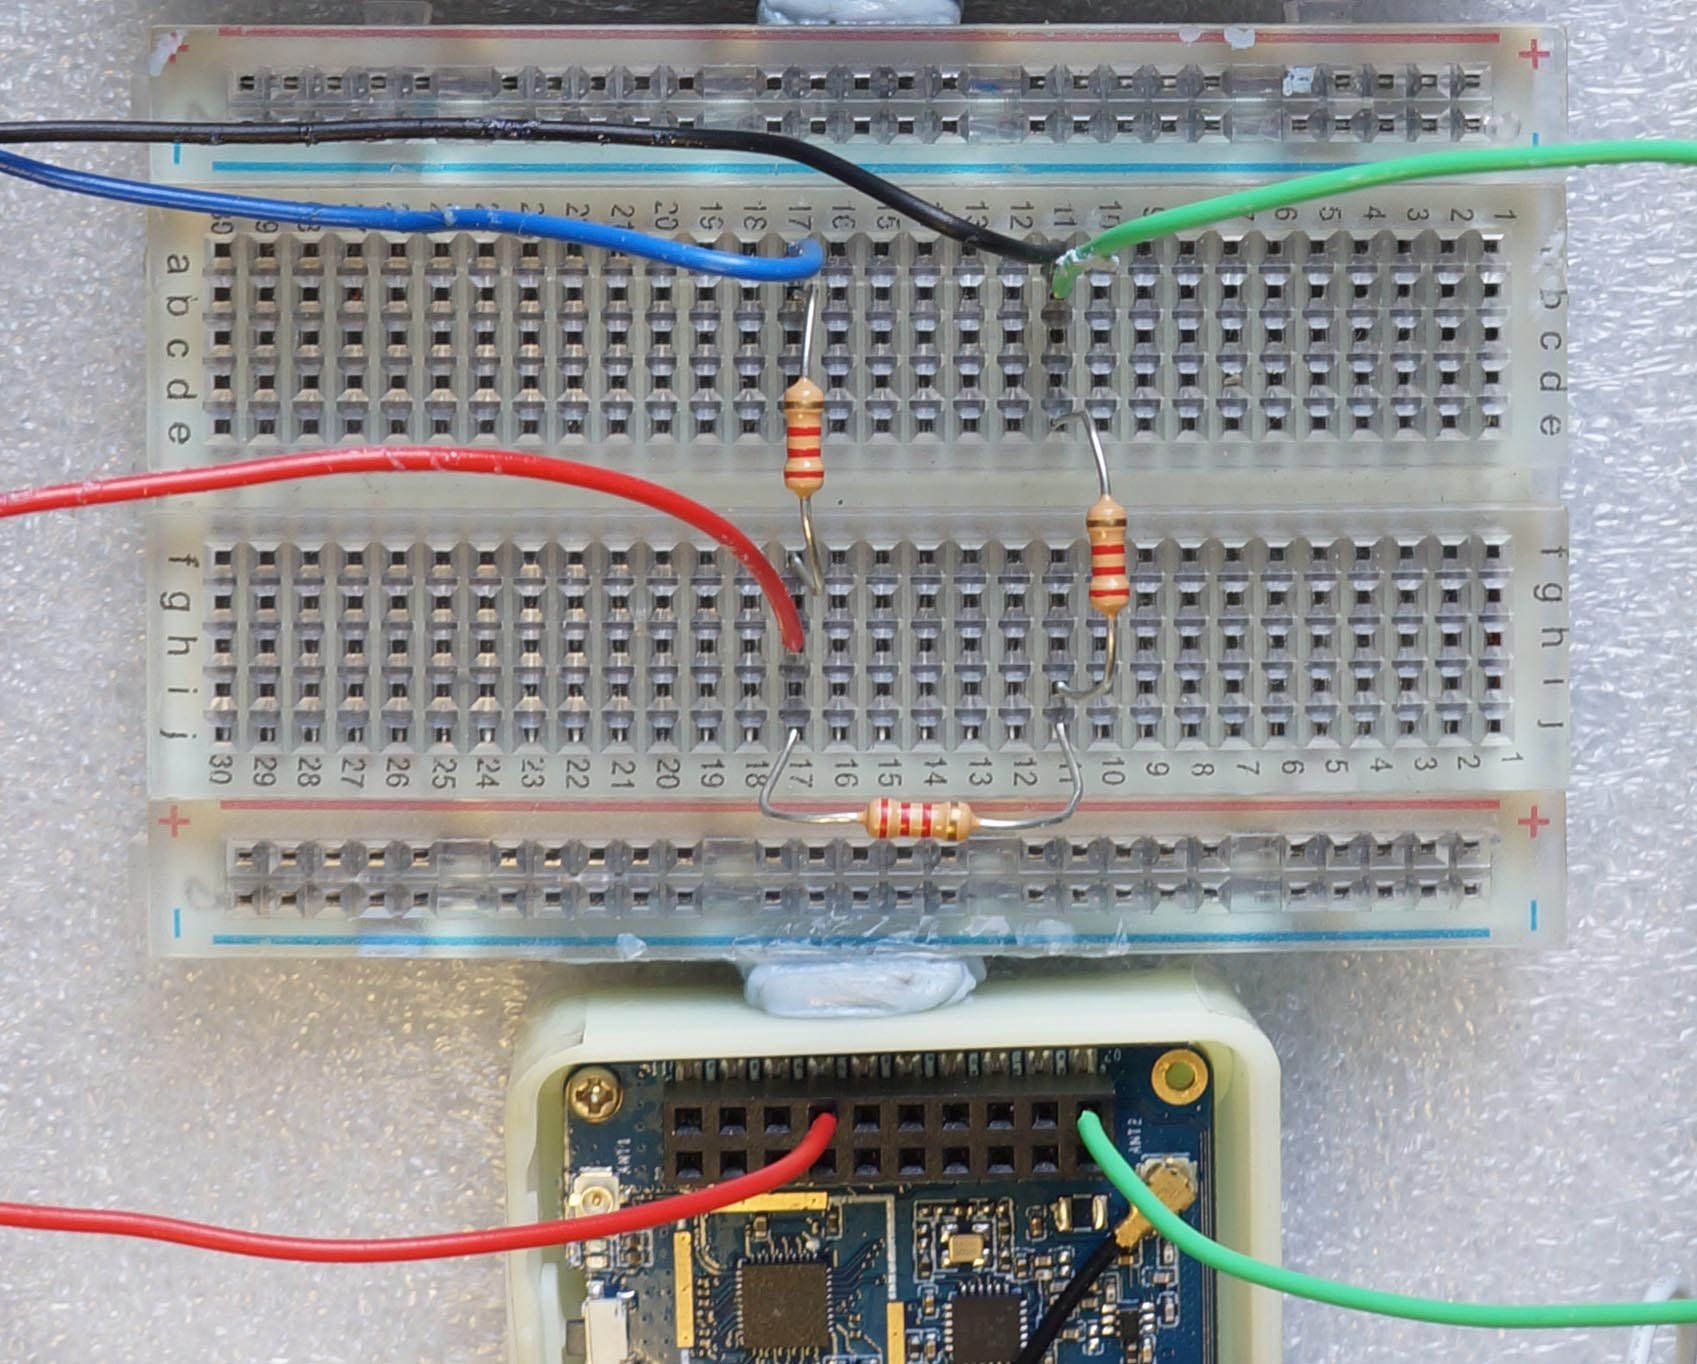
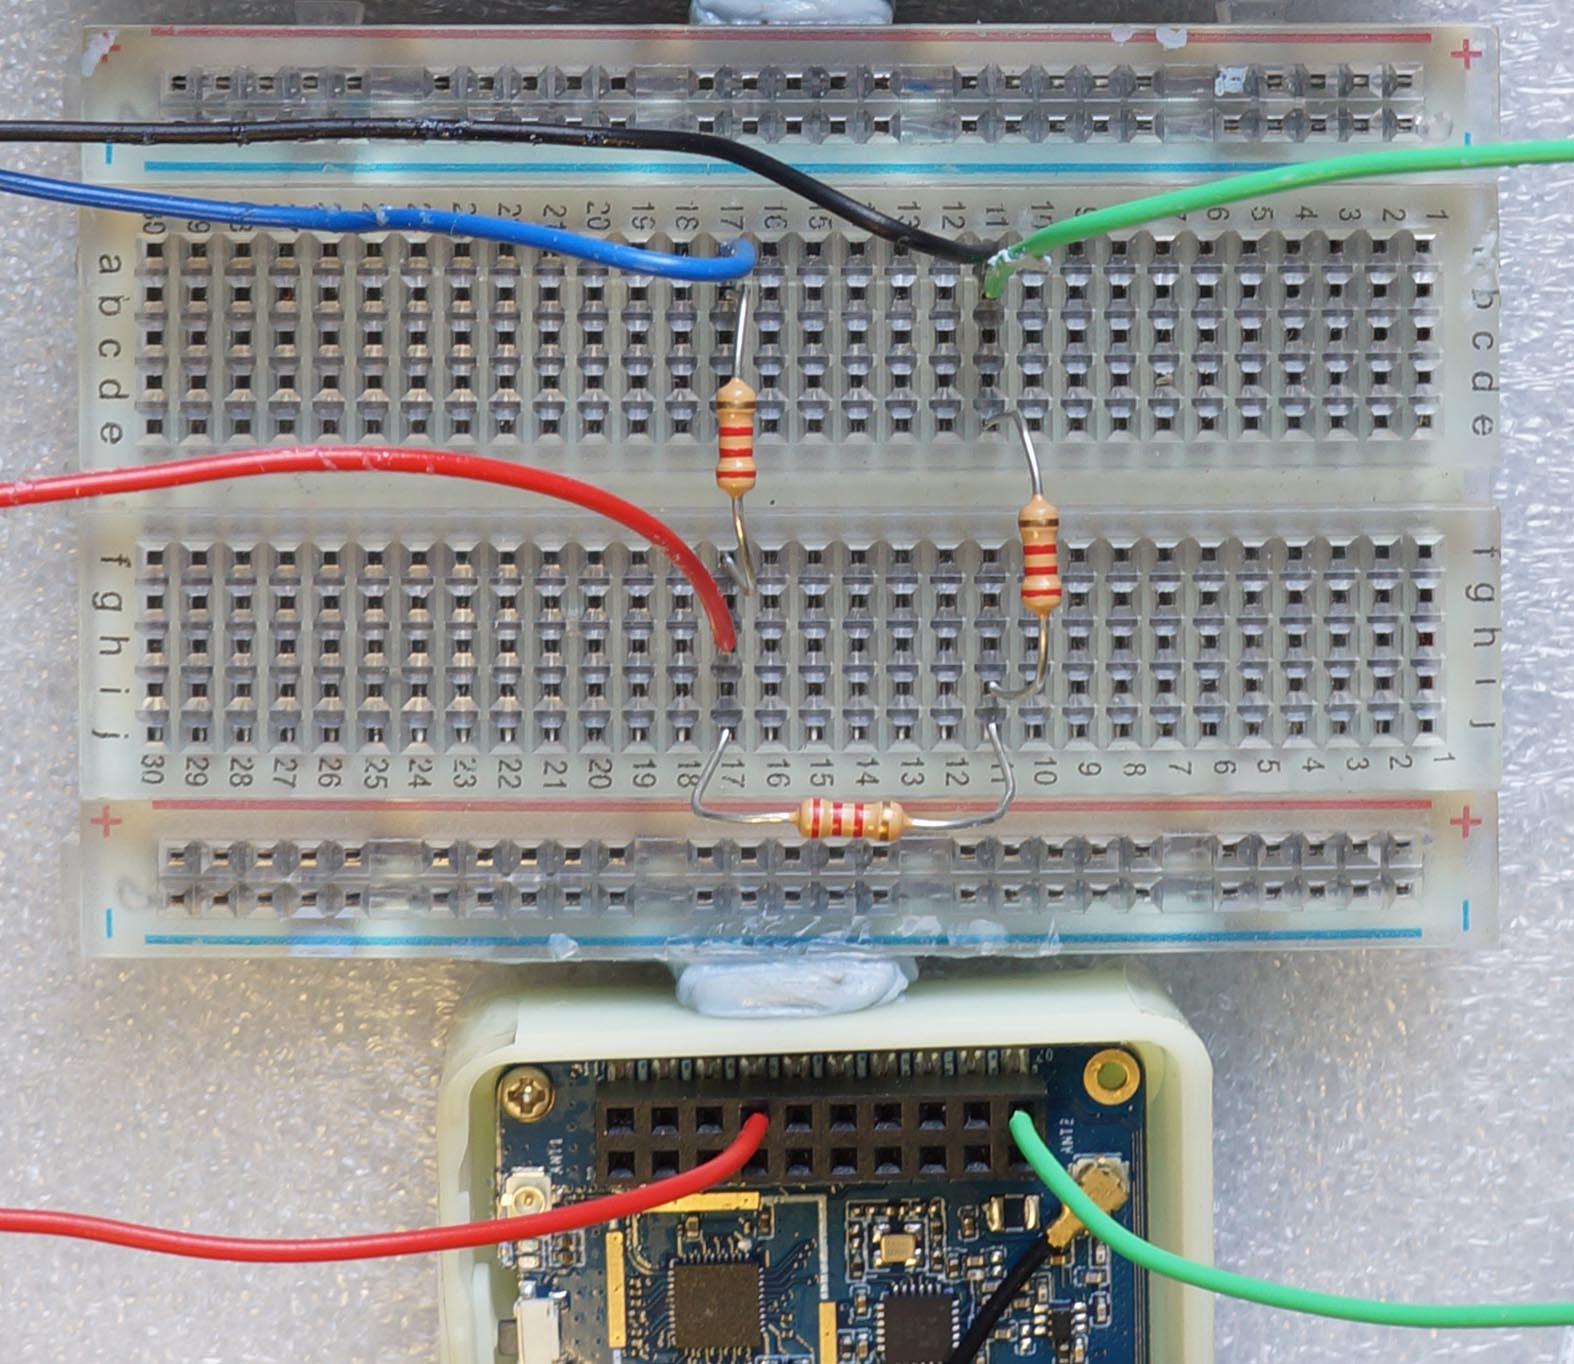
Add Voltage Divider

diff --git a/src/ikea.md b/src/ikea.md
@@ -133,17 +133,33 @@ Follow these steps to __solder the UART (Serial) Port__ on the IKEA VINDRIKTNING
 
 Now that we have exposed the UART Port on IKEA Air Quality Sensor, let's connect it to our Microcontroller Board: [__PineDio Stack BL604__](https://lupyuen.github.io/articles/pinedio)
 
-| Function | GPIO | PineDio Stack | IKEA Sensor | Wire Colour
-| :---: | :---: | :---: | :---: | :---:
-| RX | 3 | Pin 14 | REST | Blue
-| TX | 4 | Pin 13 | Unused |
-| GND | GND | Pin 20 | GND | Black
+| From | To | Wire Colour
+| :---- | :---- | :----
+| __IKEA REST__   | Resistor R1  | Blue
+| __IKEA GND__    | PineDio GND <br> Pin 20 | Black
+| __Resistor R1__ | Resistor R2 | _(Breadboard)_
+| __Resistor R2__ | Resistor R3 | _(Breadboard)_
+| __Resistor R1__ | PineDio RX <br> GPIO 3 / Pin 14 | Red
+| __Resistor R3__ | PineDio GND <br> Pin 20 | Green
+| _(Unused)_  | PineDio TX <br> GPIO 4 / Pin 13 |
 
-[("PineDio Stack" column refers to the 20-pin GPIO Connector on PineDio Stack)](https://lupyuen.github.io/articles/pinedio#logic-analyser)
+(R1, R2 and R3 are 3 Resistors with the same resistance, like 2.2 kΩ in the pic below)
 
-[(__Caution:__ The UART Port runs at 5V, not 3.3V)](https://lupyuen.github.io/articles/ikea#notes)
+[("PineDio Pin" refers to the 20-pin GPIO Connector on PineDio Stack)](https://lupyuen.github.io/articles/pinedio#logic-analyser)
 
-![IKEA VINDRIKTNING Air Quality Sensor connected to Pine64 PineDio Stack BL604 RISC-V Board](https://lupyuen.github.io/images/ikea-pinedio.jpg)
+![IKEA VINDRIKTNING Air Quality Sensor connected to Pine64 PineDio Stack BL604 RISC-V Board with Voltage Divider](https://lupyuen.github.io/images/ikea-divider3.jpg)
+
+_Why the resistors?_
+
+That's because IKEA Sensor's __UART Port runs at 5V__, not 3.3V. [(See this)](https://lupyuen.github.io/articles/ikea#notes)
+
+And our Microcontroller Board is __not 5V Tolerant__.
+
+To convert the 5V UART Port to 3.3V, we connect 3 Resistors (of the same resistance) as a [__Voltage Divider__](https://learn.sparkfun.com/tutorials/voltage-dividers/all)...
+
+![IKEA VINDRIKTNING Air Quality Sensor connected to Pine64 PineDio Stack BL604 RISC-V Board with Voltage Divider](https://lupyuen.github.io/images/ikea-divider3a.jpg)
+
+_How did we get GPIO 3 and 4?_
 
 The __GPIO Pin Numbers__ for the UART Port (UART1) are defined in [board.h](https://github.com/lupyuen/incubator-nuttx/blob/ikea/boards/risc-v/bl602/bl602evb/include/board.h#L63-L66)
 
@@ -175,9 +191,7 @@ Connect the __USB Ports__ of IKEA Sensor and PineDio Stack to our computer.
 
 (Remember: __Only One Power Source__ for both gadgets!)
 
-It looks messy with 2 USB Cables hanging off our computer, but we'll live with it for now...
-
-> ![IKEA VINDRIKTNING Air Quality Sensor and Pine64 PineDio Stack BL604 RISC-V Board connected to our computer](https://lupyuen.github.io/images/ikea-pinedio2.jpg)
+It looks messy with 2 USB Cables hanging off our computer, but we'll live with it for now.
 
 # NuttX App
 
@@ -522,10 +536,6 @@ _Got a question, comment or suggestion? Create an Issue or submit a Pull Request
     ![Voltage Divider for UART Port of IKEA VINDRIKTNING Air Quality Sensor](https://lupyuen.github.io/images/ikea-divider.jpg)
 
     (With 3 resistors of the same value)
-
-    Connecting the Voltage Divider to PineDio Stack BL604 looks like this...
-
-    ![Voltage Divider for UART Port of IKEA VINDRIKTNING Air Quality Sensor connected to PineDio Stack BL604](https://lupyuen.github.io/images/ikea-divider2.jpg)
 
 1.  Each Sensor Data Frame has 20 bytes. Why are so many bytes unused?
 
